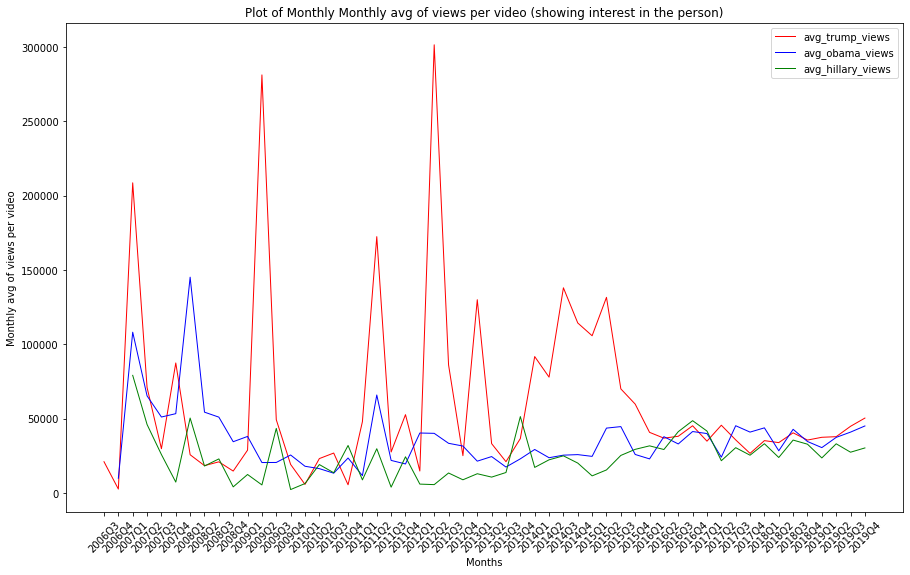
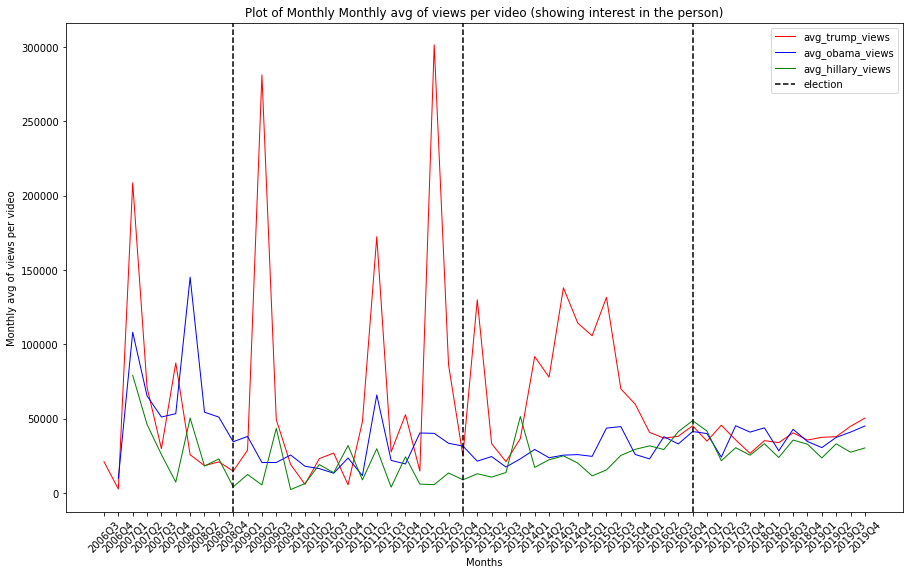
cleanup, better wordings, better story

Changed region(s): [[0.8615, 0.1183, 0.9231, 0.1774]]

diff --git a/README.md b/README.md
@@ -8,16 +8,20 @@ YouTube is one of the major social media platforms of our generation and people 
 
 ## About Radicalization Dataset
 
-## (A) Analyzing the general interaction on policital videos
+## More Politics on Youtube!
 
-First, we explore the activity of channels by category measured by video production on quarter basis, as well as views by category.
+One interesting finding from our analysis of YouTube videos is that the news and politics category seems to be experiencing rapid growth. Specifically, the number of videos in this category appears to be increasing exponentially, and the number of views is following a similar trend. 
 
 ![quarterly video release](/assets/img/number_videos_uploaded.png)
 
+
 ![quarterly views](/assets/img/Interaction.png)
 
-As can be seen from the above graph, video production in the "News & Politics" category started to grow exponentially from 2015 and it exceeded the other two categories starting 2017. This can be seen as an indicator that the general interest in videos about politics and news is increasing recently. This is also reflected by the exponential growth in views in this videos category while the interest in "Blog & People" decreases starting from around 2017.
+This suggests that there is a high level of interest in this type of content among YouTube users.
 
+There are a few potential reasons for this growth. It could be that more and more people are turning to YouTube for their news and political information, or that the quality and diversity of content in this category is improving. Alternatively, it could be that the algorithms used by YouTube are promoting this type of content more heavily, leading to increased visibility and engagement.
+
+Overall, the exponential growth of the news and politics category on YouTube highlights the important role that this platform plays in the distribution of information and the formation of public opinion. It will be interesting to see how this trend continues to evolve over time.
 
 
 ### It is all Gloom and Doom in politics:
@@ -30,38 +34,41 @@ It was also always the worst overtime.
 
 ![Sentiment in video descriptions per category overtime](assets/img/Sentiment_per_category_over_time.png)
 
-And if that wasn't enough, it also had the highest ratio of dislikes to likes and dislikes combined (which we call Heat Metric). 
+And if that wasn't enough, it also had the highest ratio of dislikes to likes and dislikes combined (which we call Heat Metric).
+
 ![Heat in video descriptions per category](assets/img/Heat_per_category.png)
 
-It consistently had morthe highest heat overtime.
+It consistently had the highest heat overtime.
 
 ![Heat in video descriptions per category overtime](assets/img/Heat_per_category_over_time.png)
 
-Looks like people might not be too keen on staying up to date with current events, or at least not on YouTube!
+Looks like people might not be too keen on staying up to date with current events, It looks like it could use a little bit of good vibes!
 
 ![why so serious?!](assets/img/why-so-serious-joker.gif)
 
 
+## Mystries from the data:
 
 ![quarterly total heat](/assets/img/heat_metric_1.png)
 
-Surprisingly, the dislikes over total number of likes and dislikes dropped overtime. We have some theories about what this happens:
-
-- People are accepting opposing opinions
-- People are becoming so politically radicalized that they only interact/view videos that agree with their own political views
 
 ![quarterly avg interaction](/assets/img/avg_interactions.png)
 
-As can be seen from the above graph, peoples average interactions per video is growing overtime for this category. Which means that people are having stronger opinions about the content either positive or negative (which can be a sign of redicalization)
 
+There could be a few potential reasons for the sharp decrease in the ratio of dislikes to total likes and dislikes for videos in the People & Blogs category on YouTube over time.
 
+One possibility is that the quality of the content in this category is improving. As the content becomes more engaging and valuable to viewers, they may be more likely to like and less likely to dislike the videos. This could also be due to changes in the algorithms used by YouTube to recommend and promote content, which could be driving more traffic to higher-quality videos in the People & Blogs category.
 
-## (B) Analyzing the sentiment of videos representing the political spectrum
+Another possibility is that the creators of these videos are paying more attention to their engagement metrics and adjusting their content accordingly. For example, they may be including more interactive elements or responding more actively to comments and feedback from their viewers, which could lead to increased likes and fewer dislikes.
 
-As we have seen in the previous part, users are interacting strongly on YouTube about political topics. This behaviour lead us to the question whether we can observe differences in user-behaviour based on the political orientation. And if so, are whether these are in line with the election results of the US in 2017. 
+Ultimately, it will be important to continue monitoring this trend and gathering additional data in order to fully understand the underlying causes of the sharp decrease in dislikes for videos in the People & Blogs category on YouTube.
 
-### Videos related to american politicians
-First, we analyze the videos related to american politicians. More precisely, we extracted all videos which contain "Trump", "Obama" or "Clinton" in their video description. Thus, we ended up with 
+## An Analysis of Trump, Obama, and Clinton on YouTube: Quantity, Quality, and Sentiment
+
+As we have seen in the previous part, users are interacting strongly on YouTube about political topics. This behaviour lead us to the question whether we can observe differences in user-behaviour based on the political orientation. And if so, are these are in line with the election results of the US in 2017. 
+
+First, we analyze the videos related to american politicians. More precisely, we extracted all videos which contain "Trump", "Obama" or "Clinton" in their video description. Thus, we ended up with:
+
 - 349,091 Trump videos,
 - 120,319 Obama videos,
 - 46,336 Clinton videos.
@@ -69,14 +76,44 @@ First, we analyze the videos related to american politicians. More precisely, we
 This already shows that the amount of videos containing "Trump" in their description strongly dominates the two other politicians. However, to understand this number even better, we are interested how the releases of these videos look over time, i.e. we examine the amount of quarterly released videos over time, the monthly views of each of these categories over time and the resulting average views per video over time.
 
 
+
 ![quarterly amount videos trump etc](/assets/img/trump_clinton_obama_videos.png)
 
 ![quarterly views trump etc](/assets/img/trump_clinton_obama_monthly_views.png)
 
+We can see from the first plot that there is a small increase in 2008 of released videos about Obama, which is in line with his presidency starting in 2009. While the amount of videos about Trump and Clinton were close to zero in that period, both increased starting in 2015. However, the growth of Trump videos is significantly stronger than of Clinton videos. After the election of Trump end of 2016, the amount of released Clinto videos dropped sharply. The plot of the monthly views for each of this category looks very similar and thus, 
+
+
+But it's not just the quantity of videos that's interesting - the sentiment for each of these figures also showed some interesting patterns. When we plotted the sentiment scores for Trump, Obama, and Clinton on the same graph, we saw that Trump had a huge positive jump in sentiment score from the beginning of 2014 until the end of 2015, while the sentiment scores for Obama and Clinton remained relatively stable.
+
+
 ![monthly avg views trump etc](/assets/img/sent_figures.png)
 
-We can see from the first plot that there is a small increase in 2008 of released videos about Obama, which is in line with his presidency starting in 2009. While the amount of videos about Trump and Clinton were close to zero in that period, both increased starting in 2015. However, the growth of Trump videos is significantly stronger than of Clinton videos. After the election of Trump end of 2016, the amount of released Clinto videos dropped sharply. The plot of the monthly views for each of this category looks very similar and thus, we can conclude that videos containing "Trump" got much more coverage and publicity from youtube compared to his opponent (Clinton) and his predeccessor (Obama). This observation is therefore perfectly in line with the election results 2017 and it is a good question to ask if YouTube actually contributed to the election victory of Trump.
+We can see that this increase in sentiment coincided with an increase in average views per videos as well compared to the other politicians. Which means that he was able to capture alot of good attention in this period. This shows more public interest in his videos or in other words, he was a trend in that period.
 
+![monthly avg views trump etc](/assets/img/avg_views_trump_etc.png)
+
+So what could be causing these trends?
+- One possibility is that Trump was simply more effective at using YouTube to promote himself and his message. 
+- His contraversial views and extreme opinions may have been able to generate more buzz and engagement around his videos, leading to more views and a higher sentiment score. 
+- Another possibility is that the algorithms used by YouTube were promoting Trump's content more heavily, leading to increased visibility and engagement.
+
+Ultimately, it's difficult to say for sure what factors contributed to these trends. However, it's worth noting that Trump's strong performance on YouTube coincided with his victory in the 2016 presidential election. While it's hard to say for certain whether his success on YouTube played a direct role in his electoral success, it's clear that he was able to leverage the platform in a way that resonated with many viewers.
+
+
+
+All in all, we can conclude that videos containing "Trump" got much more coverage and publicity from youtube compared to his opponent (Clinton) and his predeccessor (Obama). Got more positive sentiment and hype as well. This observation is therefore perfectly in line with the election results 2017 and it is a good question to ask if YouTube actually contributed to the election victory of Trump.
+
+## Polarization before Election times:
+As the presidential elections draw closer, it's not uncommon to see an increase in heated discussions and polarization in the media. But what about on YouTube? To investigate this question, we used our "heat metric" - the average ratio of dislikes to total likes and dislikes for videos over time - to see if similar trends were emerging on the platform.
+
+![monthly avg views trump etc](assets/img/heat_before_elections.png)
+
+As the plot shows, there was a clear uptick in the heat metric around the time of the 2016 elections. In other words, there were more dislikes relative to likes and dislikes for videos featuring these figures during this period. This could be a sign of increased political polarization on YouTube, as viewers seemed to be more divided in their opinions about the candidates.
+
+After the elections, the heat metric returned to more typical levels. This could be due to a variety of factors, such as changes in the types of content being produced or shared on YouTube, or a decrease in public interest in politics as the election cycle draws to a close.
+
+Overall, our analysis suggests that YouTube can be a reflection of the larger political climate, and that the platform may be influenced by the intensity of political campaigns and the level of public interest in politics. As we head into another presidential election cycle, it will be interesting to see how the heat metric and other indicators of polarization change on YouTube.
 
 ### Videos categorized by political orientation
 In order to understand the difference in user-behavior based on the political orientation even better, we used the "Radicalization Dataset" described above on top of the YouNiverse dataset as we had access to 676 channels classified based on their political orientation (i.e. left, center, right). Using these classifications, we had 228,730 classified videos based on their political orientation. Using this video data, we analyzed the growth of each of the video categories over time and also compared the development of the heat-metric over time.
@@ -133,14 +170,3 @@ To have a more supported conclusion, OLS regression analysis was used to test th
 
 
 
-
-
-
-## Data exploration (YouNiverse)
-First we explore the dataset after reduction into the three main categories. As per the below figures, fig 1 shows the number of channels per category as can be seen from the graph, "People & Blogs" Category is the highest around 18k channels. From fig 2, we can see how subscribers count is distributed among the three categories. Since the distribution of subscribers count is heavily skewed we've used log scaled count. We can observe that "News and Politics" category has the highest median with more than 50% of the channels have more than 60k subscribers.
-
-![channel/subscriber distribution](/assets/img/exploration_1.png)
-
-## Data exploration (Radicalization Dataset)
-
-![pol orient distribution](/assets/img/exploration_2.png)
